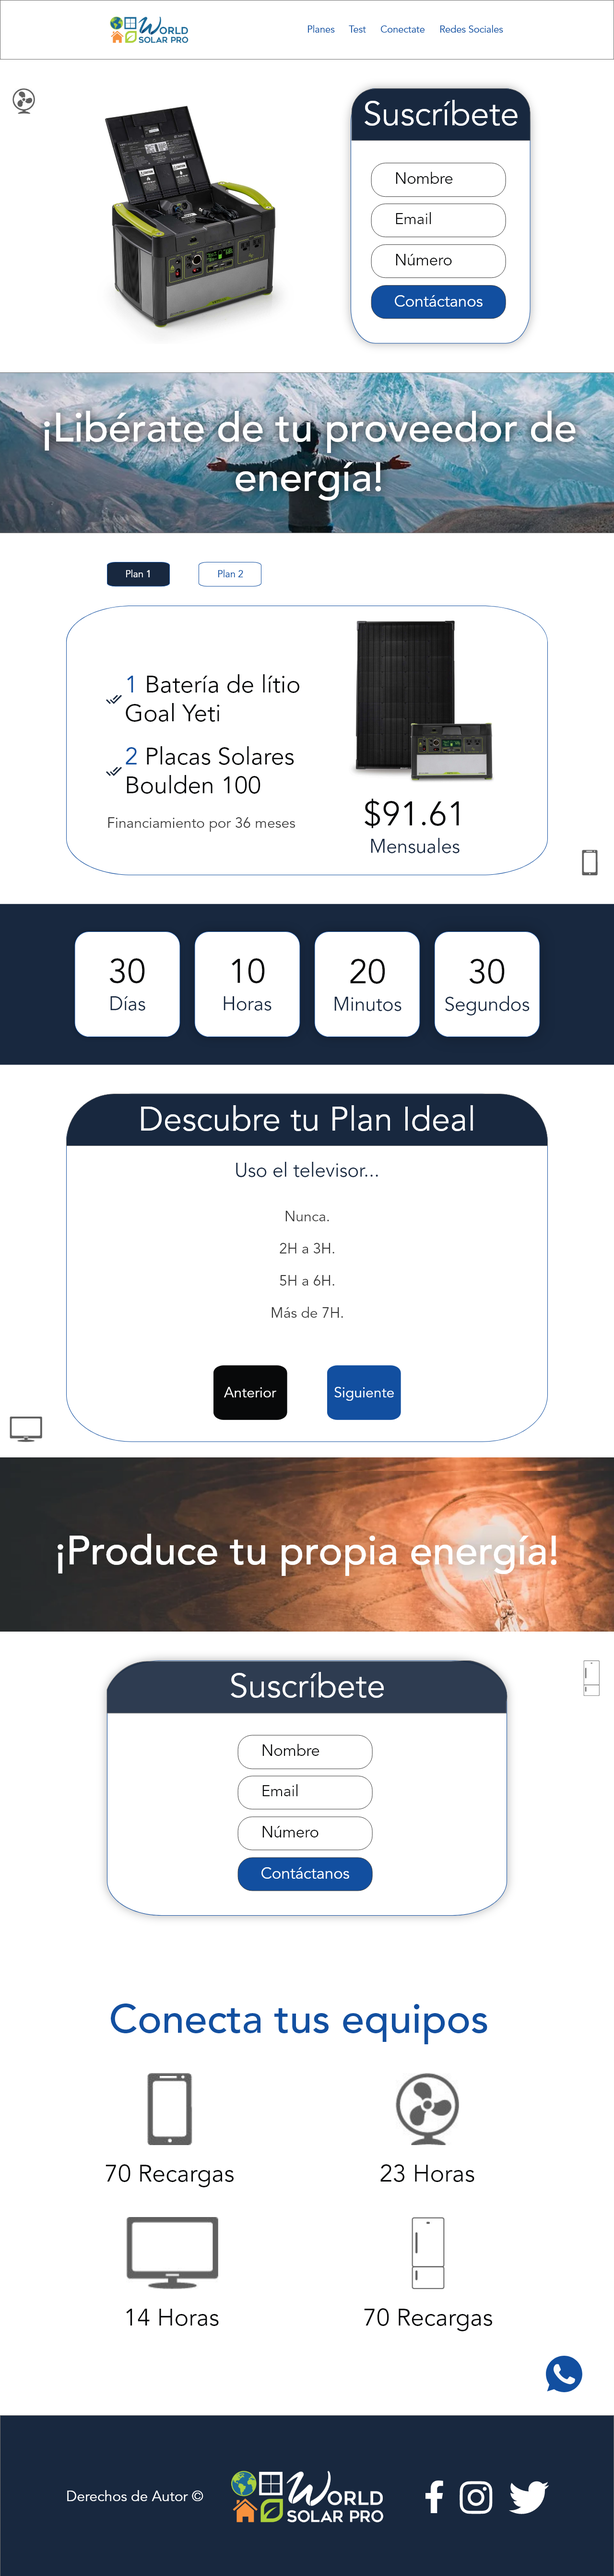
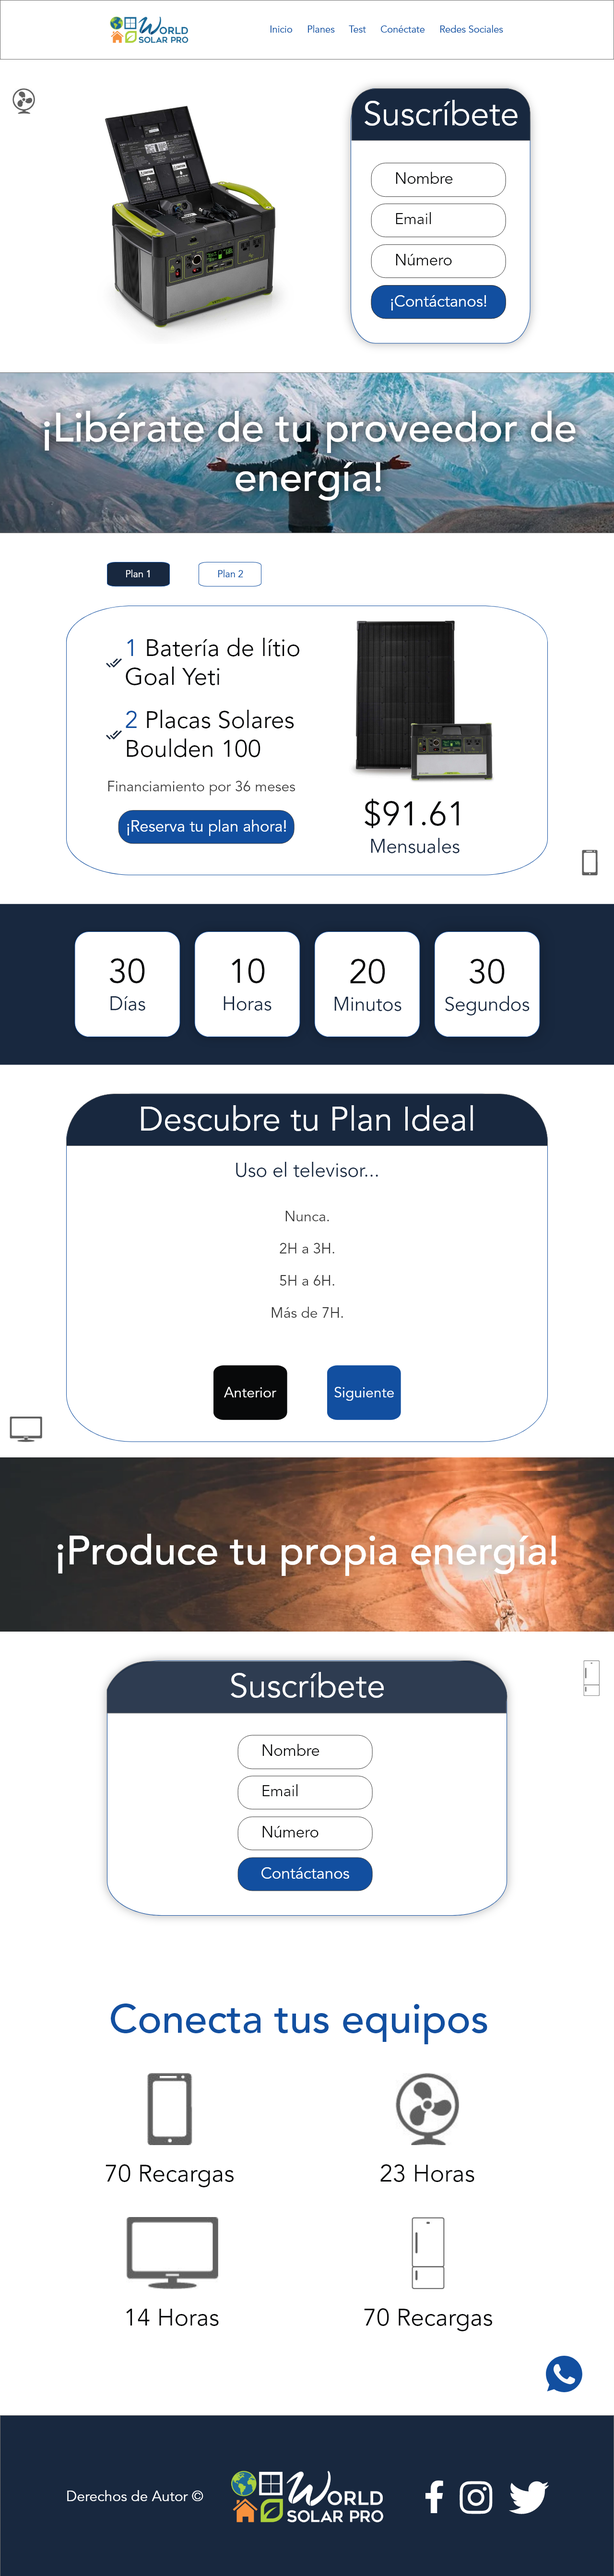
Actualizando cambios

Changed region(s): [[0.1875, 0.2489, 0.4688, 0.3422]]

diff --git a/index.html b/index.html
@@ -5,13 +5,31 @@
   <meta charset="UTF-8">
   <meta name="viewport" content="width=device-width, initial-scale=1.0">
   <title>Yeti Plan | World Solar Pro</title>
+  <link rel="stylesheet" href="./node_modules/normalize.css/normalize.css">
   <link rel="stylesheet" href="./css/styles.css">
+  <link rel="stylesheet" href="./css/menu.css">
 </head>
 
 <body>
   <div class="layout" id="app">
-    <header>
-      <nav></nav>
+    <header id="header">
+      <nav>
+        <ul class="menu">
+          <li class="menu__list logo">
+            <a href="#header">
+              <picture>
+                <source srcset="./img/logo/logo-dark.webp" alt="World Solar Pro Logo" class="" type="image/webp">
+                <img src="./img/logo/logo-dark.png" alt="World Solar Pro Logo" class="">
+              </picture>
+            </a>
+          </li>
+          <li class="menu__list"><a href="#header">Inicio</a></li>
+          <li class="menu__list"><a href="#">Planes</a></li>
+          <li class="menu__list"><a href="#">Test</a></li>
+          <li class="menu__list"><a href="#">Conectate</a></li>
+          <li class="menu__list"><a href="#">Redes Sociales</a></li>
+        </ul>
+      </nav>
     </header>
   </div>
 

diff --git a/css/styles.css b/css/styles.css
@@ -1,3 +1,31 @@
+@font-face {
+  font-family: 'Avenir';
+  src: local('Avenir'), local('Avenir'), url('../font/avenir/regular.woff') format('woff');
+  font-display: swap;
+}
+
+@font-face {
+  font-family: 'Avenir';
+  font-weight: 700, 800, 900, 1000;
+  src: local('Avenir'), local('Avenir'), url('../font/avenir/bold.woff') format('woff');
+  font-display: swap;
+}
+
+:root {
+  --black: #08090A;
+  --white: #ffffff;
+  --grey: #373737;
+  --light_blue: #124FA0;
+  --dark_blue: #18283F;
+  --yellow: #F6EA03;
+  --font_family: 'Avenir';
+}
+
+* {
+  font-family: 'Avenir', sans-serif;
+}
+
+
 /* Display */
 
 .d-grid {

diff --git a/css/menu.css b/css/menu.css
@@ -1,0 +1,5 @@
+  header {
+    padding: 2rem;
+    border: 1px solid var(--black);
+  }
+  /* https://www.youtube.com/watch?v=mbDNrvKLAGM */
